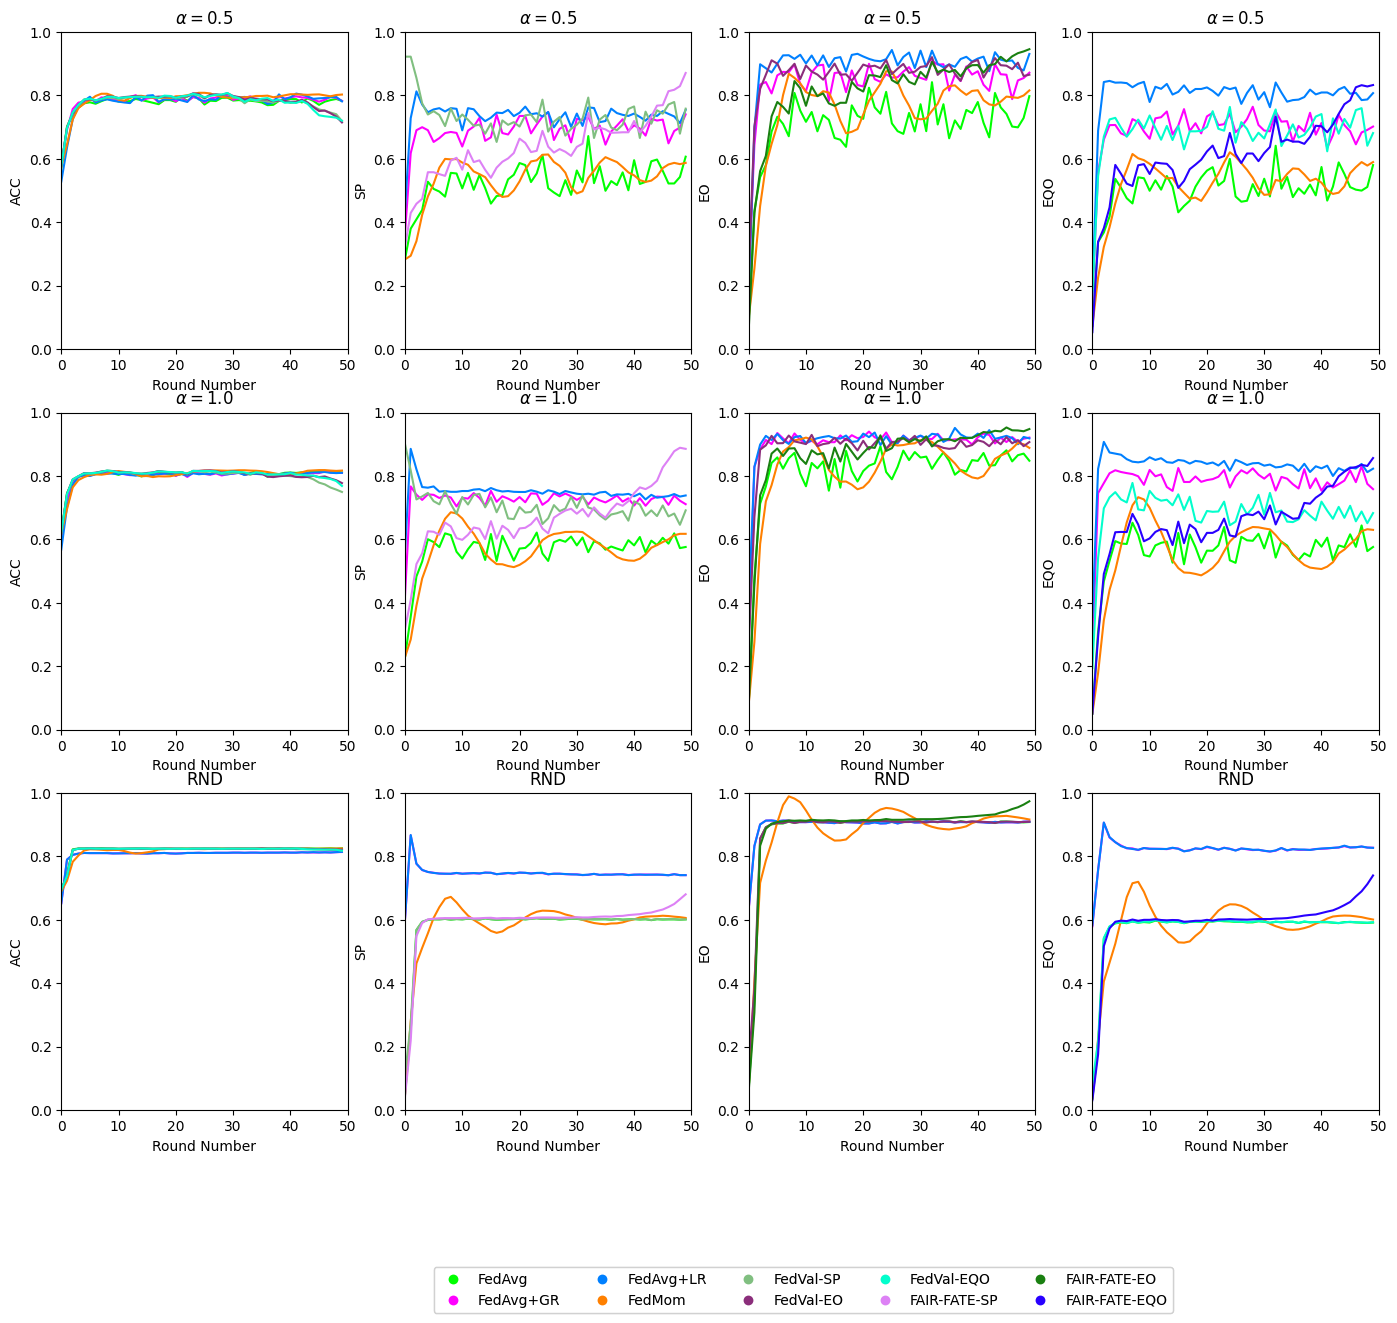
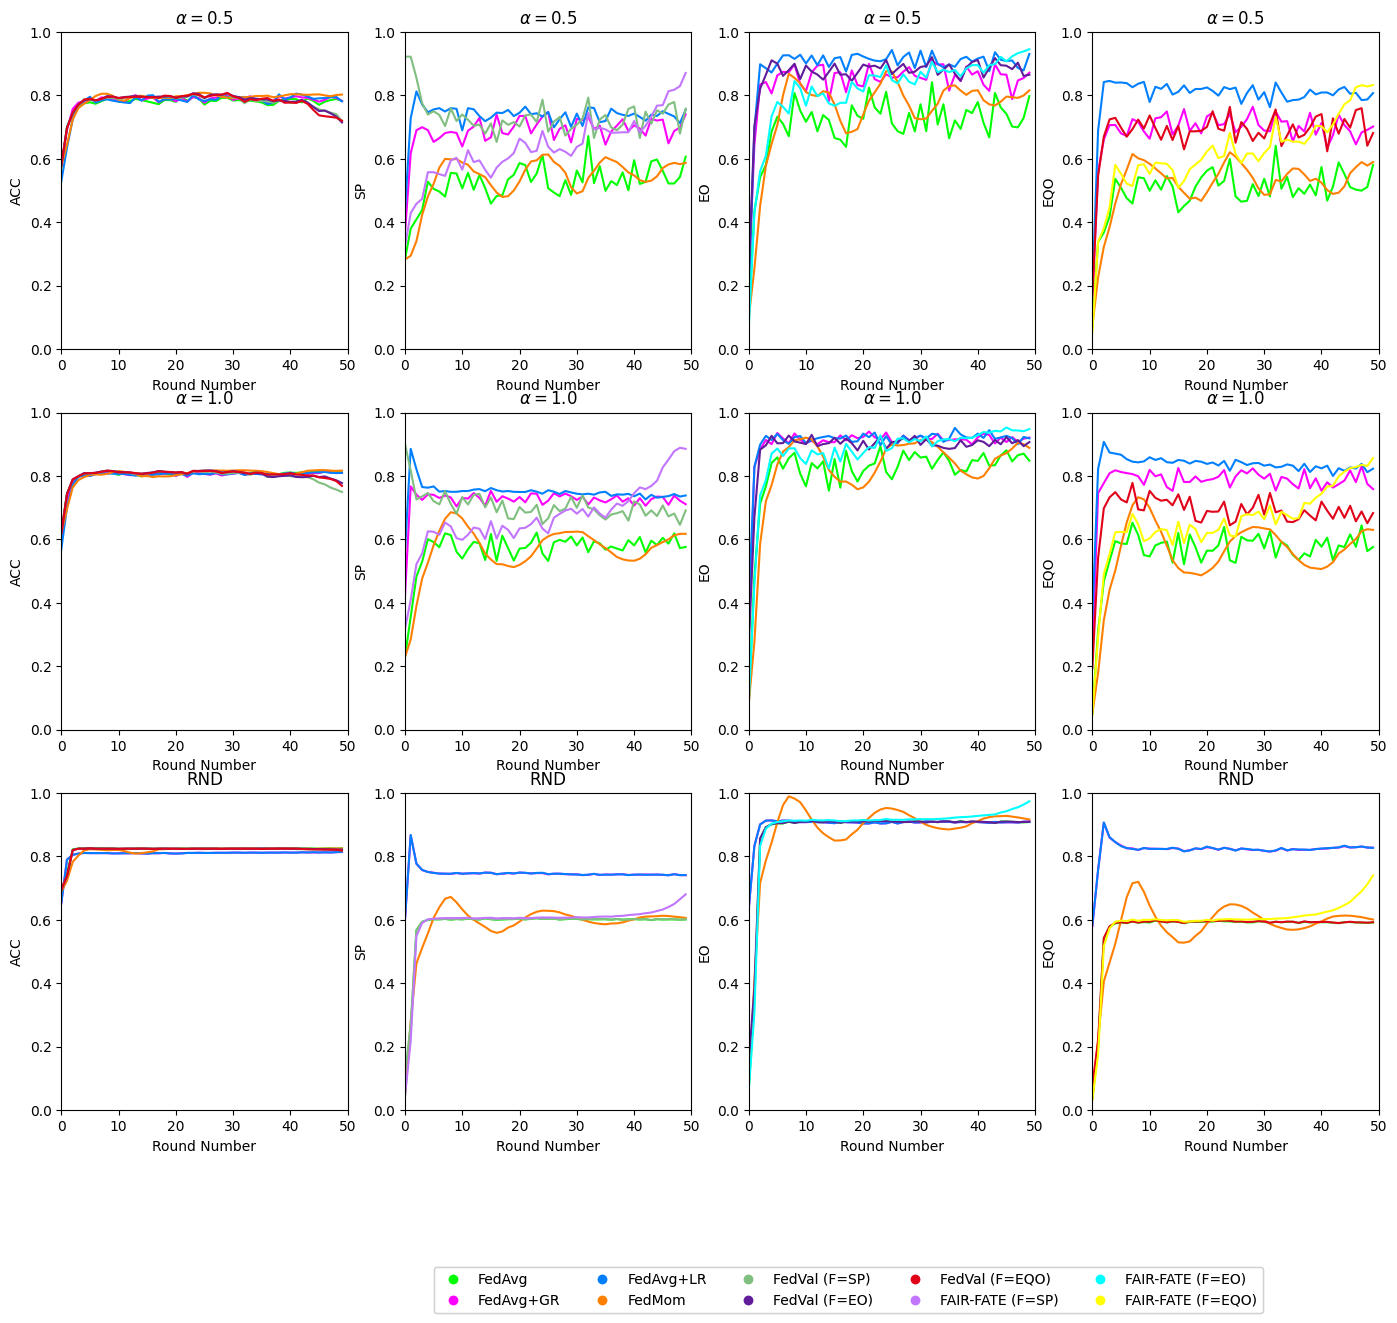
Plots.

diff --git a/code/plots/plot_results_epochs.py b/code/plots/plot_results_epochs.py
@@ -36,12 +36,12 @@ def plot_results_epochs(n_rounds, dataset_name, num_runs, fairness_metrics, alph
     plt.figure(figsize=(17, 14))
     x_plot = [i for i in range(0, len(dfs[0][0]))]
     fls_legend = [
-        ["FedAvg", "FedAvg+GR", "FedAvg+LR", "FedMom", "FedVal-SP", "FedVal-EO", "FedVal-EQO", "FAIR-FATE-SP", "FAIR-FATE-EO", "FAIR-FATE-EQO"],
-        ["FedAvg", "FedAvg+GR", "FedAvg+LR", "FedMom", "FedVal-SP", "FAIR-FATE-SP"],
-        ["FedAvg", "FedAvg+GR", "FedAvg+LR", "FedMom", "FedVal-EO", "FAIR-FATE-EO"],
-        ["FedAvg", "FedAvg+GR", "FedAvg+LR", "FedMom", "FedVal-EQO", "FAIR-FATE-EQO"]
+        ["FedAvg", "FedAvg+GR", "FedAvg+LR", "FedMom", "FedVal (F=SP)", "FedVal (F=EO)", "FedVal (F=EQO)", "FAIR-FATE (F=SP)", "FAIR-FATE (F=EO)", "FAIR-FATE (F=EQO)"],
+        ["FedAvg", "FedAvg+GR", "FedAvg+LR", "FedMom", "FedVal (F=SP)", "FAIR-FATE (F=SP)"],
+        ["FedAvg", "FedAvg+GR", "FedAvg+LR", "FedMom", "FedVal (F=EO)", "FAIR-FATE (F=EO)"],
+        ["FedAvg", "FedAvg+GR", "FedAvg+LR", "FedMom", "FedVal (F=EQO)", "FAIR-FATE (F=EQO)"]
     ]
-    colors = distinctipy.get_colors(len(fls_legend[0]), rng=10)
+    colors = distinctipy.get_colors(len(fls_legend[0]), rng=1)
     d = {}
     for i in range(len(fls_legend[0])):
         d[fls_legend[0][i]] = colors[i]

diff --git a/plot.py b/plot.py
@@ -64,7 +64,6 @@ if __name__ == '__main__':
     metrics = ["TPR_ratio"]
     #print_results(dataset_name, 20, 50, metrics, alpha=alpha)
 
-    """
     plot_results_epochs(
         50, Dutch().name, 20, ["SP_ratio", "TPR_ratio", "EQO_ratio"],
         [0.5, 1.0, None],
@@ -92,7 +91,7 @@ if __name__ == '__main__':
         [[0.045, 0.047, 0.045], [0.05, 0.045, 0.045], [0.05, 0.05, 0.05]],
         [[0.9, 0.8, 0.9], [0.7, 0.7, 0.7], [0.99, 0.99, 0.99]],
         [0.8, 0.9, 0.99]
-    )"""
+    )
 
     """
     plot_results_epochs_specific(
@@ -133,8 +132,7 @@ if __name__ == '__main__':
             'FAIR-FATE (F=EO)'
         ]
     )"""
-
-
+    """
     plot_results_epochs_specific(
         Law().name, 20,
         [[
@@ -172,7 +170,7 @@ if __name__ == '__main__':
             "FedVal (F=EO)",
             'FAIR-FATE (F=EO)'
         ]
-    )
+    )"""
 
     #plot_paretos(Adult().name, 20, 50, [None, 1.0, 0.5], [["SP_ratio"], ["TPR_ratio"], ["EQO_ratio"]], "ACC", "pareto_fronts-adult")
     #plot_paretos(Compas().name, 20, 50, [None, 0.5, 0.25], [["SP_ratio"], ["TPR_ratio"], ["EQO_ratio"]], "ACC", "pareto_fronts-compas")
